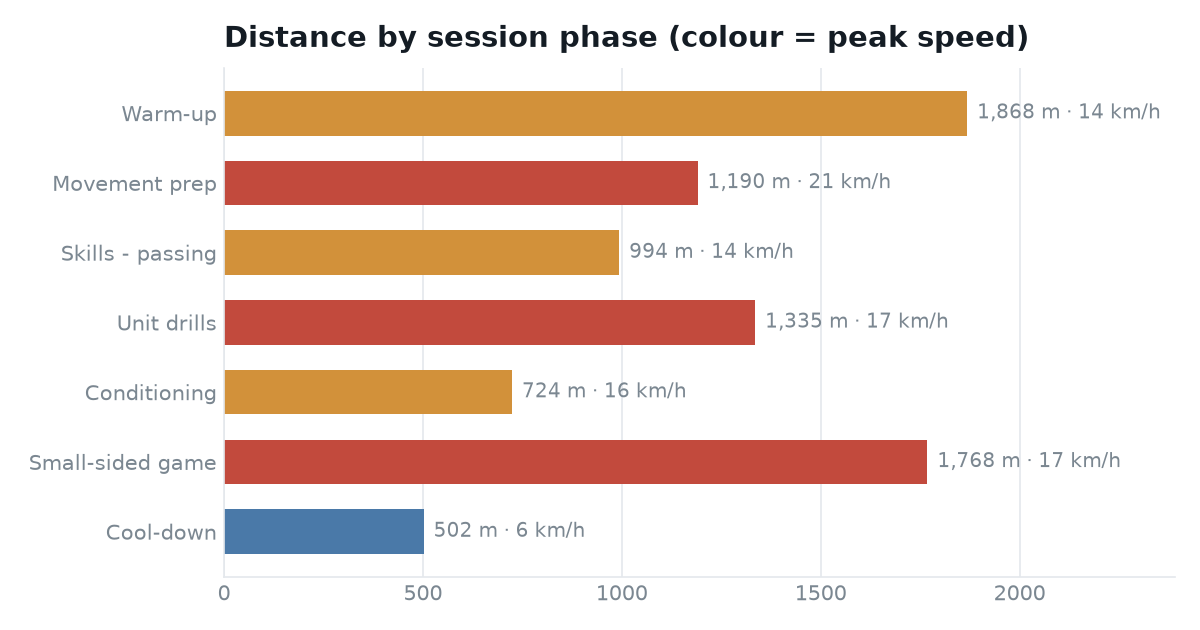
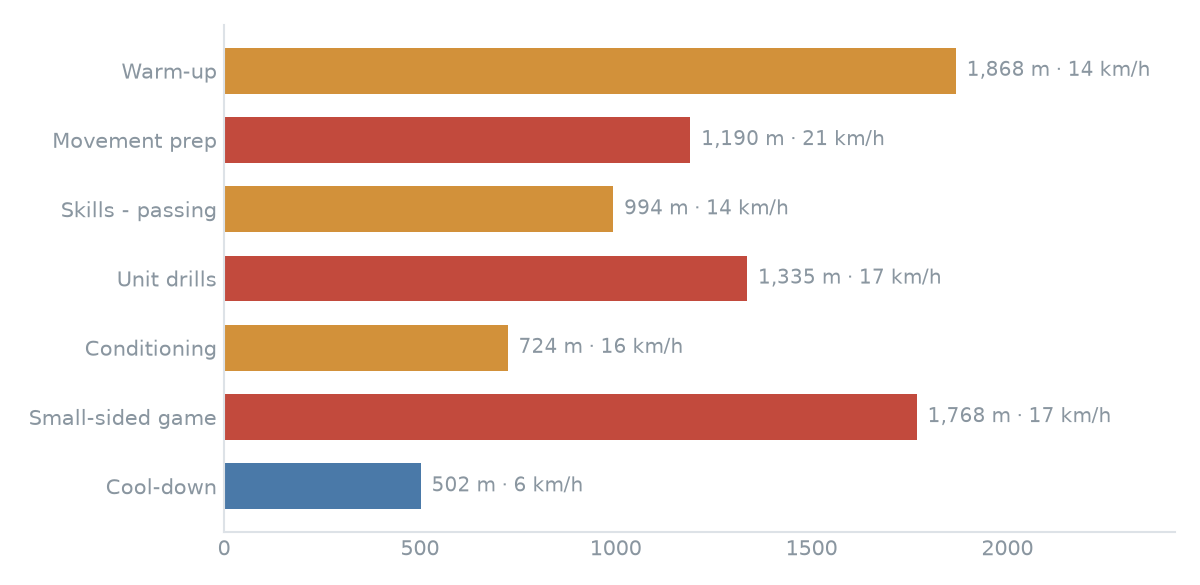
Polish to 10/10: cohesive title-less charts, tighter portrait crop, unified chart cards

Changed region(s): [[0.0308, 0.0308, 0.9558, 0.9538], [0.0925, 0.8, 0.185, 0.8615], [0.8942, 0.0923, 0.9558, 0.1231]]

diff --git a/index.html b/index.html
@@ -182,7 +182,7 @@
       <div class="projects">
 
         <a class="pcard reveal" href="case-studies/01-gps-session.html">
-          <div class="pcard-img"><img src="assets/gps_movement_trace.png" alt="Real GPS movement trace coloured by running speed"><span class="pcard-tag real"><span class="d"></span> Real data</span></div>
+          <div class="pcard-img contain"><img src="assets/gps_movement_trace.png" alt="Real GPS movement trace coloured by running speed"><span class="pcard-tag real"><span class="d"></span> Real data</span></div>
           <div class="pcard-body"><div class="pcard-cat">GPS · Python</div><h3>GPS Session Physical Report</h3><p>A raw 36,000-row Catapult export → a one-page physical summary.</p><span class="go">View case study →</span></div>
         </a>
 
@@ -202,12 +202,12 @@
         </a>
 
         <a class="pcard reveal" href="case-studies/03-acwr-load.html">
-          <div class="pcard-img"><img src="assets/acwr.png" alt="ACWR training-load chart across 16 weeks"><span class="pcard-tag demo"><span class="d"></span> Method demo</span></div>
+          <div class="pcard-img contain"><img src="assets/acwr.png" alt="ACWR training-load chart across 16 weeks"><span class="pcard-tag demo"><span class="d"></span> Method demo</span></div>
           <div class="pcard-body"><div class="pcard-cat">Load monitoring · Python</div><h3>Training Load Monitor (ACWR)</h3><p>Rolling ACWR flagging athlete-weeks outside the safe load range.</p><span class="go">View case study →</span></div>
         </a>
 
         <a class="pcard reveal" href="case-studies/04-readiness.html">
-          <div class="pcard-img"><img src="assets/whoop_recovery.png" alt="Daily recovery from real WHOOP data, colour-coded by zone"><span class="pcard-tag real"><span class="d"></span> Real data</span></div>
+          <div class="pcard-img contain"><img src="assets/whoop_recovery.png" alt="Daily recovery from real WHOOP data, colour-coded by zone"><span class="pcard-tag real"><span class="d"></span> Real data</span></div>
           <div class="pcard-body"><div class="pcard-cat">Recovery · Python</div><h3>Recovery &amp; Readiness Analysis</h3><p>28 days of my own WHOOP recovery, HRV and sleep — analysed and visualised.</p><span class="go">View case study →</span></div>
         </a>
 

diff --git a/assets/site.css b/assets/site.css
@@ -320,7 +320,8 @@ html.js .reveal.in{ opacity:1; transform:none; }
 .pcard-img{ position:relative; aspect-ratio:16/10; overflow:hidden; background:var(--panel2); border-bottom:1px solid var(--line); }
 .pcard-img img{ width:100%; height:100%; object-fit:cover; transition:transform .5s ease; }
 .pcard:hover .pcard-img img{ transform:scale(1.05); }
-.pcard-img.contain img{ object-fit:contain; padding:14px; }
+.pcard-img.contain{ background:#fff; }
+.pcard-img.contain img{ object-fit:contain; padding:16px; }
 .pcard-img.top img{ object-position:top; }
 .pcard-tag{ position:absolute; top:12px; left:12px; display:inline-flex; align-items:center; gap:6px; font-family:var(--mono); font-size:9.5px; letter-spacing:.05em; text-transform:uppercase; padding:5px 10px; border-radius:20px; background:color-mix(in srgb,var(--panel) 82%, transparent); backdrop-filter:blur(6px); border:1px solid var(--line); }
 .pcard-tag .d{ width:6px; height:6px; border-radius:50%; background:currentColor; }
